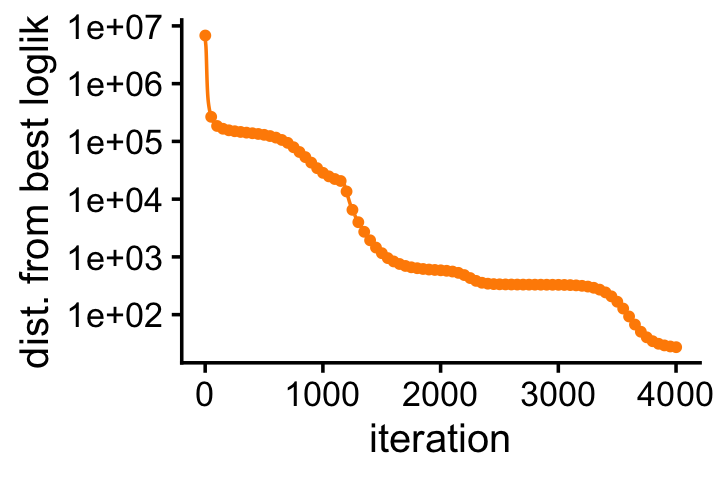
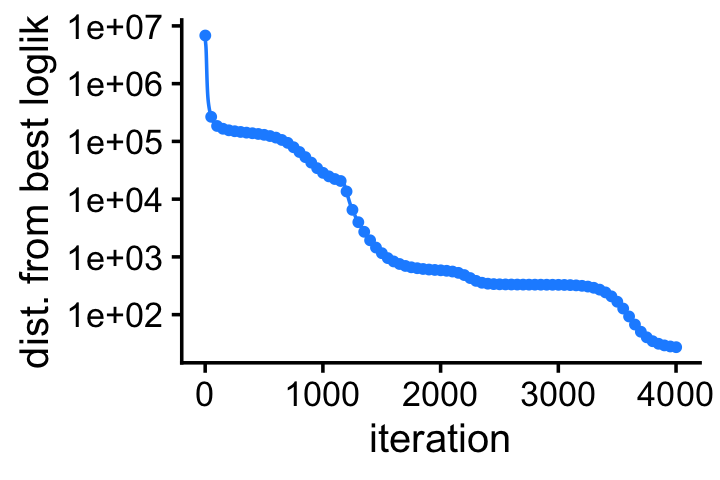
Fixed the new progress plot in the mcf7 example.

Changed region(s): [[0.275, 0.0625, 0.9472, 0.75]]

diff --git a/docs/mcf7.html b/docs/mcf7.html
@@ -446,15 +446,15 @@ project makes it easier to run your code on other machines.</p>
 <div class="panel panel-default">
 <div class="panel-heading">
 <p class="panel-title">
-<a data-toggle="collapse" data-parent="#workflowr-checks" href="#strongRepositoryversionstrongahrefhttpsgithubcomstephenslabfastTopicsexperimentstree2e4ce294279ff4596691d548b5a3998c1ac1d628targetblank2e4ce29a">
+<a data-toggle="collapse" data-parent="#workflowr-checks" href="#strongRepositoryversionstrongahrefhttpsgithubcomstephenslabfastTopicsexperimentstreed2d8cb0ca5bca848972af351abe841cef7922d11targetblankd2d8cb0a">
 <span class="glyphicon glyphicon-ok text-success"
 aria-hidden="true"></span> <strong>Repository version:</strong>
-<a href="https://github.com/stephenslab/fastTopics-experiments/tree/2e4ce294279ff4596691d548b5a3998c1ac1d628" target="_blank">2e4ce29</a>
+<a href="https://github.com/stephenslab/fastTopics-experiments/tree/d2d8cb0ca5bca848972af351abe841cef7922d11" target="_blank">d2d8cb0</a>
 </a>
 </p>
 </div>
 <div
[2 lines of base64/hex data omitted]
 class="panel-collapse collapse">
 <div class="panel-body">
 <p>
@@ -464,7 +464,7 @@ reproducibility.
 </p>
 <p>
 The results in this page were generated with repository version
-<a href="https://github.com/stephenslab/fastTopics-experiments/tree/2e4ce294279ff4596691d548b5a3998c1ac1d628" target="_blank">2e4ce29</a>.
+<a href="https://github.com/stephenslab/fastTopics-experiments/tree/d2d8cb0ca5bca848972af351abe841cef7922d11" target="_blank">d2d8cb0</a>.
 See the <em>Past versions</em> tab to see a history of the changes made
 to the R Markdown and HTML files.
 </p>
@@ -503,13 +503,7 @@ Untracked files:
     Untracked:  analysis/maptpx-newsgroups-em-k=10.rds
     Untracked:  analysis/maptpx-newsgroups-scd-ex-k=10.rds
     Untracked:  analysis/mcf7_cache/
-    Untracked:  analysis/mcf7_progress_plot.pdf
-    Untracked:  analysis/mcf7_progress_plot_em.pdf
-    Untracked:  analysis/mcf7_structure_plots.pdf
     Untracked:  plots/
-
-Unstaged changes:
-    Modified:   analysis/temp.R
 
 </code></pre>
 <p>
@@ -554,6 +548,40 @@ Message
 </tr>
 </thead>
 <tbody>
+<tr>
+<td>
+Rmd
+</td>
+<td>
+<a href="https://github.com/stephenslab/fastTopics-experiments/blob/d2d8cb0ca5bca848972af351abe841cef7922d11/analysis/mcf7.Rmd" target="_blank">d2d8cb0</a>
+</td>
+<td>
+Peter Carbonetto
+</td>
+<td>
+2025-06-26
+</td>
+<td>
+wflow_publish("mcf7.Rmd", verbose = T, view = F)
+</td>
+</tr>
+<tr>
+<td>
+html
+</td>
+<td>
+<a href="https://rawcdn.githack.com/stephenslab/fastTopics-experiments/1144f1100d7f754177e2d2ed47339ca3d747d484/docs/mcf7.html" target="_blank">1144f11</a>
+</td>
+<td>
+Peter Carbonetto
+</td>
+<td>
+2025-06-26
+</td>
+<td>
+Added another progress plot to the mcf7 example showing that the EM
+</td>
+</tr>
 <tr>
 <td>
 Rmd
@@ -992,6 +1020,43 @@ p7 &lt;- structure_plot(fit_em_scd,grouping = samples$label,topics = c(3,1,2),
   theme(axis.text.x = element_text(angle = 0,hjust = 0.5))
 print(plot_grid(p4,p5,p6,p7,nrow = 4,ncol = 1))</code></pre>
 <p><img src="figure/mcf7.Rmd/more-structure-plots-1.png" width="480" style="display: block; margin: auto;" /></p>
+<p>
+<button type="button" class="btn btn-default btn-xs btn-workflowr btn-workflowr-fig" data-toggle="collapse" data-target="#fig-more-structure-plots-1">
+Past versions of more-structure-plots-1.png
+</button>
+</p>
+<div id="fig-more-structure-plots-1" class="collapse">
+<div class="table-responsive">
+<table class="table table-condensed table-hover">
+<thead>
+<tr>
+<th>
+Version
+</th>
+<th>
+Author
+</th>
+<th>
+Date
+</th>
+</tr>
+</thead>
+<tbody>
+<tr>
+<td>
+<a href="https://github.com/stephenslab/fastTopics-experiments/blob/1144f1100d7f754177e2d2ed47339ca3d747d484/docs/figure/mcf7.Rmd/more-structure-plots-1.png" target="_blank">1144f11</a>
+</td>
+<td>
+Peter Carbonetto
+</td>
+<td>
+2025-06-26
+</td>
+</tr>
+</tbody>
+</table>
+</div>
+</div>
 <p>Also, let’s check that the EM updates <em>eventually</em> converge to
 the same fixed point:</p>
 <pre class="r"><code>control$extrapolate &lt;- FALSE
@@ -1023,13 +1088,50 @@ remove this warning. See the
 pdat &lt;- transform(pdat,loglik.multinom = ll_best - loglik.multinom)
 pdat2 &lt;- subset(pdat,iter %% 50 == 1)
 p8 &lt;- ggplot(pdat,aes(x = iter,y = loglik.multinom)) +
-  geom_line(color = &quot;darkorange&quot;) +
-  geom_point(data = pdat2,size = 1,color = &quot;darkorange&quot;) +
+  geom_line(color = &quot;dodgerblue&quot;) +
+  geom_point(data = pdat2,size = 1,color = &quot;dodgerblue&quot;) +
   scale_y_continuous(trans = &quot;log10&quot;,breaks = 10^seq(-2,+7)) +
   labs(x = &quot;iteration&quot;,y = &quot;dist. from best loglik&quot;) +
   theme_cowplot(font_size = 12)
 print(p8)</code></pre>
 <p><img src="figure/mcf7.Rmd/progress-plot-1.png" width="360" style="display: block; margin: auto;" /></p>
+<p>
+<button type="button" class="btn btn-default btn-xs btn-workflowr btn-workflowr-fig" data-toggle="collapse" data-target="#fig-progress-plot-1">
+Past versions of progress-plot-1.png
+</button>
+</p>
+<div id="fig-progress-plot-1" class="collapse">
+<div class="table-responsive">
+<table class="table table-condensed table-hover">
+<thead>
+<tr>
+<th>
+Version
+</th>
+<th>
+Author
+</th>
+<th>
+Date
+</th>
+</tr>
+</thead>
+<tbody>
+<tr>
+<td>
+<a href="https://github.com/stephenslab/fastTopics-experiments/blob/1144f1100d7f754177e2d2ed47339ca3d747d484/docs/figure/mcf7.Rmd/progress-plot-1.png" target="_blank">1144f11</a>
+</td>
+<td>
+Peter Carbonetto
+</td>
+<td>
+2025-06-26
+</td>
+</tr>
+</tbody>
+</table>
+</div>
+</div>
 <p>Finally, save the key plots to PDF:</p>
 <pre class="r"><code>ggsave(&quot;mcf7_structure_plots.pdf&quot;,
        plot_grid(p1 + ggtitle(&quot;initial&quot;),
